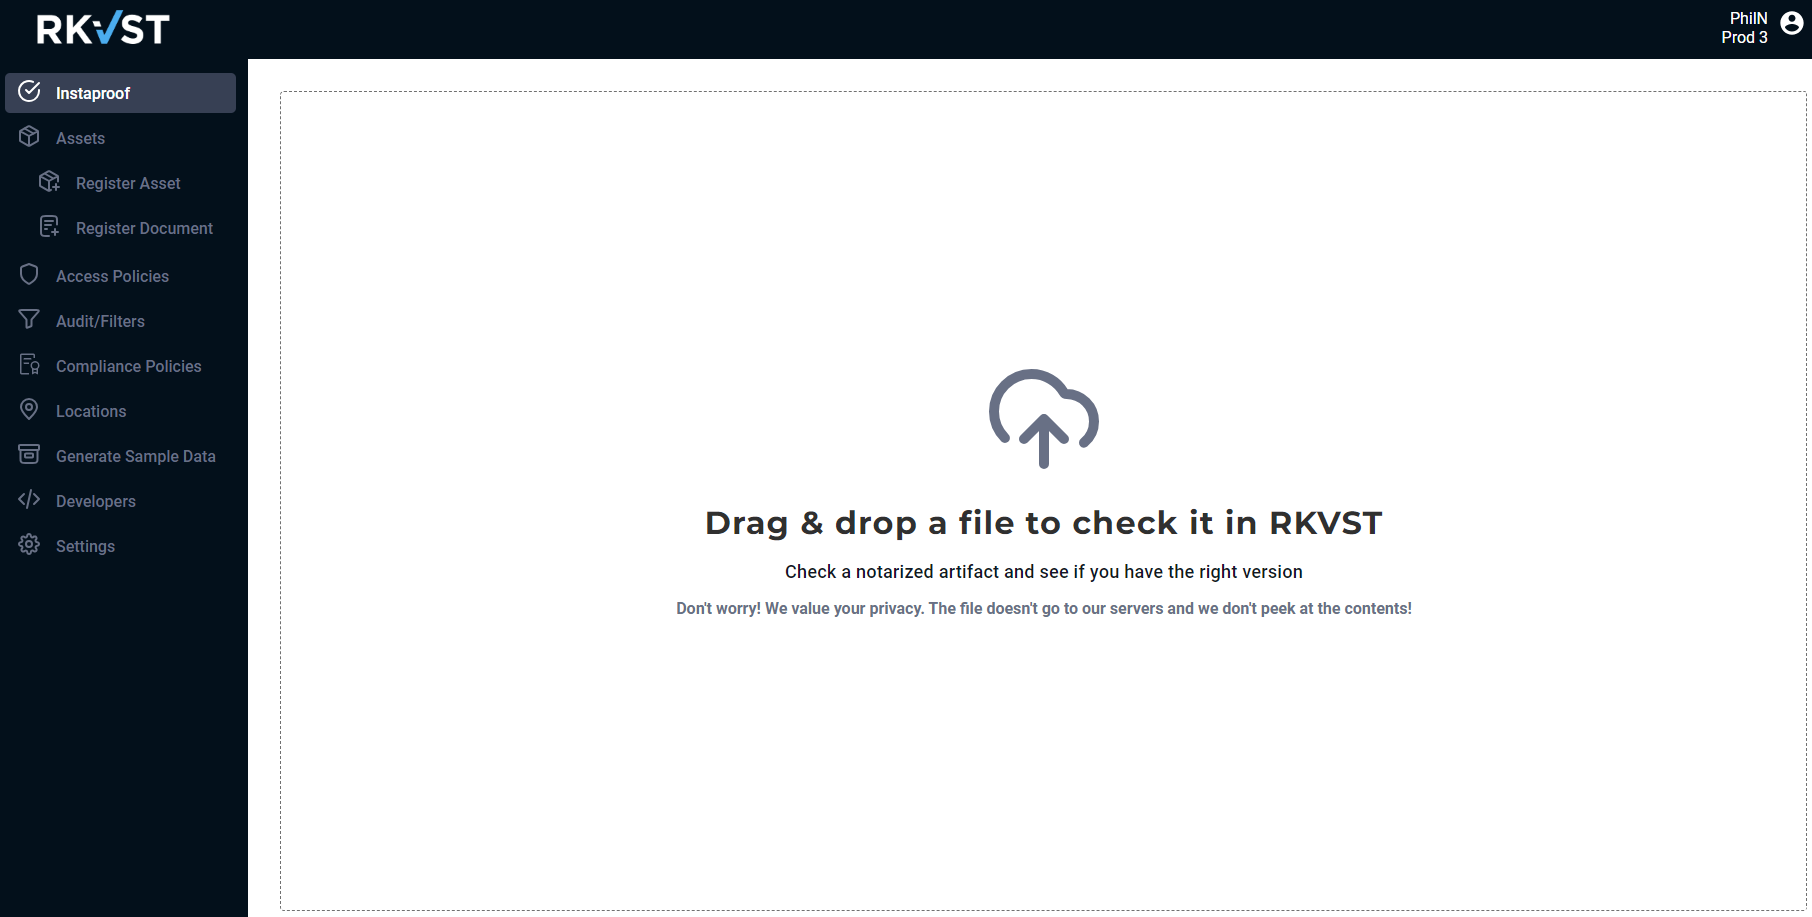
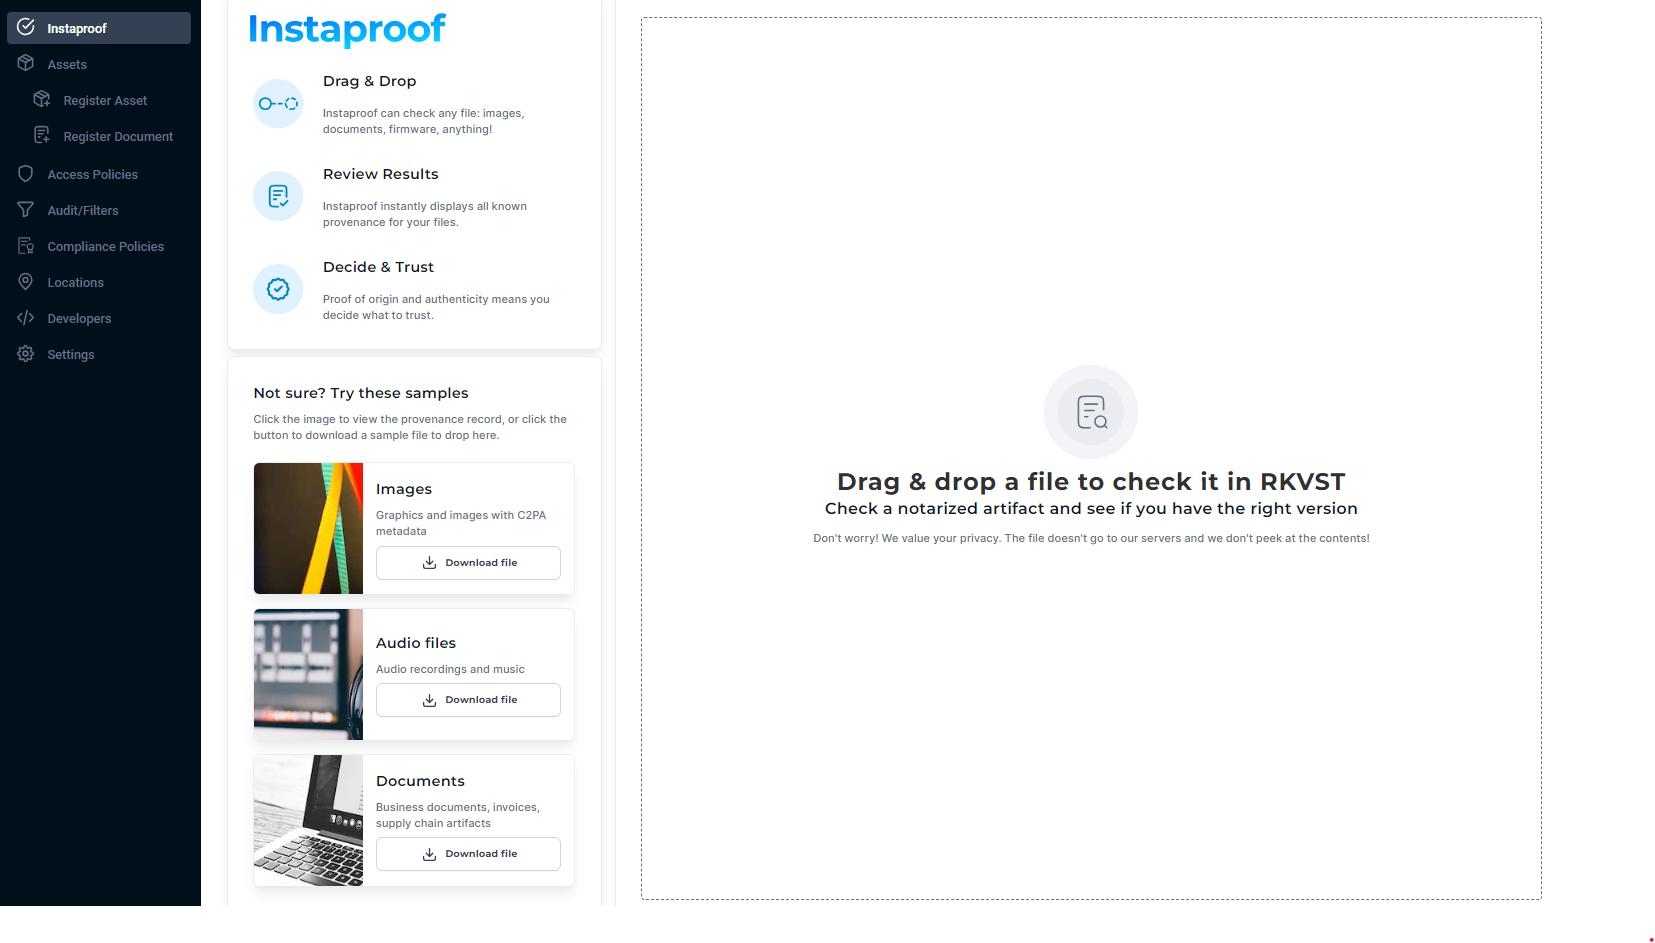
Instaproof screenshot update (#644)
* New article for document profile events

* Changes made after content review and feedback

* Instaproof screenshot update

---------

diff --git a/content/platform/overview/registering-an-event-against-a-document-profile-asset/index.md b/content/platform/overview/registering-an-event-against-a-document-profile-asset/index.md
@@ -1,0 +1,339 @@
+---
+title: "Registering an Event Against a Document Profile Asset"
+description: ""
+lead: ""
+date: 2023-07-26T13:07:55+01:00
+lastmod: 2023-07-26T13:07:55+01:00
+draft: false
+images: []
+menu: 
+  platform:
+    parent: "overview"
+weight: 36
+toc: true
+---
+
+It is rare for a document to remain unchanged during it's lifetime. Some documents are expected to go though many versions (e.g product documentation) while others (e.g. an employment contract) change much less frequently. 
+
+If you need to update your registered Document Profile Asset you can record this as an Event. The [Document Profile](/developers/developer-patterns/document-profile/) defines two types of Event; Publish and Withdraw.
+
+Document Registration is the first Event with each new version being recorded as a Publish Event.
+
+There is also the option to record an event (Record Event) that is important but is not formally part of the document profile. An example of this could be a document content review or a change in security classifiation.
+
+When the document version is no longer to be used there is a Withdraw Event.
+
+These Events track key moments of an Document's lifecycle; details of Who Did What When to each version of the document.
+
+{{< note >}}
+Before registering an Event, follow [this guide](/platform/overview/registering-a-document-profile-asset/) to register your first Document Asset.
+{{< /note >}}
+
+## Registering Events
+
+1. Open the Asset Overview for a Document Profile Asset. 
+
+{{< tabs name="add_event" >}}
+{{{< tab name="UI" >}}
+When viewing your Document, you have the choice of `Add New Version` (publish a new version), `Withdraw Document` (the document has reached End of Life) or `Record Event` (any other event that you wish to record).
+{{< img src="AssetOverview.png" alt="Rectangle" caption="<em>Document Asset Overview</em>" class="border-0" >}}
+{{< /tab >}}
+{{< tab name="YAML" >}}
+To use the YAML Runner, please visit [this link](https://python.rkvst.com/runner/index.html) for installation instructions.
+
+To create your Event, use the action `EVENTS_CREATE`.
+```yaml
+---
+steps:
+  - step:
+      action: EVENTS_CREATE
+      description: Record event against My First Document.
+      asset_label: assets/<asset-id>
+    behaviour: RecordEvidence
+```
+The `asset_id` must match the Asset ID found in the details of your Document. See [Step 7 of Registering a Document Profile Asset](/platform/overview/registering-a-document-profile-asset/).
+{{< /tab >}}
+{{< tab name="JSON" >}}
+Create an empty file, in later steps we will add the correct JSON.
+
+```json
+{
+
+}
+```
+
+{{< /tab >}}}
+{{< /tabs >}}
+<br>
+{{< note >}}
+In addition to the Asset and Event attributes that are part of the Document Profile, it is possible to record other attributes that are not part of the profile. These are:
+  
+* `Event Attributes` - Attributes specific to an Event, i.e. a new author.
+* `Asset Attributes` - Attributes of the Asset that may change as a result of the Event, i.e. the new document hash.
+{{< /note >}}
+<br>
+2. Adding a New Version.
+
+{{< tabs name="add_new_version" >}}
+{{{< tab name="UI" >}}
+Click on the `Add New Version` button.<br> 
+Information that is specific to the Document Profile is entered in the Document Information tab. As with registering the document, the new version can be dragged into the Auto-fill box or you can manually enter the document hash. 
+{{< img src="AddNewVersion.png" alt="Rectangle" caption="<em>Document Information</em>" class="border-0" >}}
+The Advanced Options tab is for additional Asset and Event attributes that are not part of the document profile.
+{{< img src="AddNewVersionDetails.png" alt="Rectangle" caption="<em>Advanced Options</em>" class="border-0" >}}
+{{< /tab >}}
+{{< tab name="YAML" >}}
+
+Add your `event_attributes` and `asset_attributes` as key-value pairs.
+
+Fill out the metadata about your Event; `operation` and `behaviour` detail what class of Event is being performed. By default this should always be `Record` and `RecordEvidence`, respectively.
+
+In the asset attributes section you should include the required RKVST asset attributes as defined by the document profile. The new document version hash value is `document_hash_value`, the hash algorithm is `document_hash_alg` and the `document_status` which must be `Published`.
+
+In the event attributes section you should also add the required RKVST event attribute `arc_display_type` together with any other event specific attributes. The Document Profile specifies that `arc_display_type` must be `Publish`.  
+
+```yaml
+---
+steps:
+  - step:
+      action: EVENTS_CREATE
+      description: Record event against My First Document.
+      asset_label: assets/<asset-id>
+    operation: Record
+    behaviour: RecordEvidence
+    asset_attributes: 
+      document_hash_value: 84684c83afd5e9cb3a83439872eae74798979ff5754b15931dbe768092174ec9
+      document_hash_alg: sha256
+      document_version: "2"
+      document_status: Published
+    event_attributes:
+      arc_description: Publish version 2 of My First Document
+      arc_display_type: Publish
+      document_version_authors:
+        - display_name: Dee Author
+          email: dee@writeme.org
+        - display_name: Anne Author
+          email: anne@writeme.org  
+    confirm: true
+```
+{{< /tab >}}
+{{< tab name="JSON" >}}
+Add your `event_attributes` and `asset_attributes` as key-value pairs.
+
+Fill out the metadata about your Event; `operation` and `behaviour` detail what class of Event is being performed. By default this should always be `Record` and `RecordEvidence`, respectively.
+
+In the asset attributes section you should include the required RKVST asset attributes as defined by the document profile. The new document version hash value is `document_hash_value`, the hash algorithm is `document_hash_alg` and the `document_status` which must be `Published`.
+
+In the event attributes section you should also add the required RKVST event attribute `arc_display_type` together with any other event specific attributes. The Document Profile specifies that `arc_display_type` must be `Publish`.  
+
+```json
+{
+  "operation": "Record",
+  "behaviour": "RecordEvidence",
+  "asset_attributes": {
[1 lines of base64/hex data omitted]
+        "document_hash_alg":"sha256",
+        "document_version":"2",
+        "document_status":"Published"
+    },
+  "event_attributes": {
+    "arc_description": "Publish version 2 of My First Document",
+    "arc_display_type": "Publish",
+          "document_version_authors": [
+            {
+              "display_name": "Dee Author",
+              "email": "dee@writeme.org"
+            },
+            {
+              "display_name": "Anne Author",
+              "email": "anne@writeme.org"
+            }
+          ]  
+  }
+}
+```
+
+This Event will be POSTed to a specific Asset endpoint when the curl command is run. To do this, you will need to include the correct `assets/<asset-id>` string for the asset in the URL.
+{{< /tab >}}}
+{{< /tabs >}}
+<br>
+
+3. The Withdraw Event.
+{{< tabs name="withdraw_event" >}}
+{{{< tab name="UI" >}}
+If a document is no longer required, or if for any reason it is decided that it should no longer be used, then a document can be withdrawn.<br>Withdrawal is optional and it is usually the final event in the document lifecycle. It can be reversed in RKVST by publishing a new version.
+{{< img src="WithdrawEvent.png" alt="Rectangle" caption="<em>Withdraw Event</em>" class="border-0" >}}
+
+{{< /tab >}}
+{{< tab name="YAML" >}}
+
+Use the attibute/value pairs in the example below to register a `Withdraw` event. 
+```yaml
+---
+steps:
+  - step:
+      action: EVENTS_CREATE
+      description: Withdraw My First Document.
+      asset_label: assets/<asset-id>
+    operation: Record
+    behaviour: RecordEvidence
+    asset_attributes: 
+      document_status: Withdrawn
+    event_attributes:
+      arc_description: Withdraw My First Document
+      arc_display_type: Withdraw
+    confirm: true
+```
+{{< /tab >}}
+{{< tab name="JSON" >}}
+
+Use the attibute/value pairs in the example below to register a `Withdraw` event.
+```json
+{
+  "behaviour": "RecordEvidence",
+    "operation": "Record",
+    "asset_attributes": {
+        "document_status":"Withdrawn"
+    },
+    "event_attributes": {
+        "arc_description":"Withdraw My First Document",
+        "arc_display_type":"Withdraw"
+    }
+}
+```
+{{< /tab >}}}
+{{< /tabs >}}
+<br>
+4. Recording a Generic Event.
+
+The `Record Event` button provides a way to record generic events that are not part of the Document Profile lifecycle. The asset and event attributes are in separate tabs in this Event type.
+
+See [Creating an Event Against an Asset](/platform/overview/creating-an-event-against-an-asset/) for more information on this event type.
+{{< tabs name="record_event" >}}
+{{{< tab name="UI" >}}
+
+{{< img src="RecordEvent.png" alt="Rectangle" caption="<em>Submitting the Event</em>" class="border-0" >}}
+
+{{< /tab >}}
+{{< tab name="YAML" >}}
+```yaml
+---
+steps:
+  - step:
+      action: EVENTS_CREATE
+      description: Record event against My First Document.
+      asset_label: assets/<asset-id>
+    operation: Record
+    behaviour: RecordEvidence
+    event_attributes:
+      arc_description: Document review
+      arc_display_type:  Review
+    confirm: true
+```
+{{< /tab >}}
+{{< tab name="JSON" >}}
+```json
+{
+  "operation": "Record",
+  "behaviour": "RecordEvidence",
+  "event_attributes": {
+    "arc_description": "Document Review",
+    "arc_display_type": "Review",
+  },
+}
+
+```
+{{< /tab >}}}
+{{< /tabs >}}
+<br>
+5. Registering the Event
+{{< tabs name="register_event" >}}
+{{{< tab name="UI" >}}
+Once your form is complete, click on the `Record Event` button to register the event.
+{{< img src="RecordEvent.png" alt="Rectangle" caption="<em>Submitting the Event</em>" class="border-0" >}}
+{{< /tab >}}
+{{< tab name="YAML" >}}
+Use the [archivist_runner](https://python.rkvst.com/runner/index.html) to run your YAML file!
+ 
+```bash
+$ archivist_runner \
+      -u https://app.rkvst.io \
+      --client-id <your-client-id> \
+      --client-secret <your-client-secret> \
+      my_first_document_event.yaml
+```
+{{< /tab >}}
+{{< tab name="JSON" >}}
+Use the curl command to run your JSON file! See instructions for [creating your `BEARER_TOKEN_FILE`](/developers/developer-patterns/getting-access-tokens-using-app-registrations/) here.
+ 
+```bash
+curl -v -X POST \
+    -H "@$BEARER_TOKEN_FILE" \
+    -H "Content-type: application/json" \
+    -d "@/path/to/jsonfile" \
+    https://app.rkvst.io/archivist/v2/assets/<asset-id>/events
+```
+{{< /tab >}}}
+{{< /tabs >}}
+<br>
+6. Viewing Event details. 
+
+{{< tabs name="view_event" >}}
+{{{< tab name="UI" >}}
+The Event History can be seen in the Asset Overview from step 1, simply click on any Event row to view it.<br>
+The Document tab shows information about the document version that you are viewing and also provides a drag-and-drop box that allows you to check any locally stored versions of the document that you have against this specific version.
+
+{{< img src="EventDetails.png" alt="Rectangle" caption="<em>Viewing an Event</em>" class="border-0" >}}
+
+The More Details tab provides information about the Event itself and incluides a link to the transaction. It also includes any optional attributes that were included in the Event.
+
+{{< img src="MoreEventDetails.png" alt="Rectangle" caption="<em>Viewing Event Attributes</em>" class="border-0" >}}
+
+{{< /tab >}}
+{{< tab name="YAML" >}}
+The `EVENTS_LIST` action can be used to view all Events, or filtered using attributes (`attrs`) to view details of a specific Event. 
+
+To view all Events, use: 
+```yaml
+---
+steps:
+  - step:
+      action: EVENTS_LIST
+      description: List all events.
+      print_response: true
+```
+To view the details of the Event you just created for My First Container, use:
+```yaml
+---
+steps:
+  - step:
+      action: EVENTS_LIST
+      description: List Events against the Document 'My First Document'.
+      print_response: true
+      asset_label: assets/59e2b78b-d555-49a0-8775-f336b640122e 
+    attrs:
+      arc_display_type: Publish
+```
+{{< /tab >}}
+{{< tab name="JSON" >}}
+Event data can be viewed using curl commands. 
+
+To view all Events across all Assets, use:
+
+```bash
+curl -v -X GET \
+     -H "@$BEARER_TOKEN_FILE" \
+     https://app.rkvst.io/archivist/v2/assets/-/events
+```
+
+To view the details of the Event you just created for My First Document, use:
+
+```bash
+curl -v -X GET \
+     -H "@$BEARER_TOKEN_FILE" \
+     https://app.rkvst.io/archivist/v2/assets/<asset-id>/events/<event-id>
+```
+{{< /tab >}}}
+{{< /tabs >}}
+
+

diff --git a/content/platform/overview/creating-an-event-against-an-asset/index.md b/content/platform/overview/creating-an-event-against-an-asset/index.md
@@ -294,6 +294,10 @@ curl -v -X GET \
 {{< /tab >}}}
 {{< /tabs >}}
 
+<<<<<<< HEAD
+Please see the [Administation](/platform/administration/) section for information on how to manage your assets.
+=======
 
 In the next section we look at a specific type of Asset, the Document Profile Asset.
+>>>>>>> main
 

diff --git a/content/platform/overview/instaproof/index.md b/content/platform/overview/instaproof/index.md
@@ -9,7 +9,7 @@ images: []
 menu: 
   platform:
     parent: "overview"
-weight: 38
+weight: 37
 toc: true
 ---
 Instaproof provides data provenance and authenticity with a simple drag-and-drop. 

diff --git a/content/platform/overview/public-attestation/index.md b/content/platform/overview/public-attestation/index.md
@@ -9,7 +9,7 @@
  menu:
    platform:
      parent: "overview"
- weight: 36
+ weight: 38
  toc: true
  aliases:
   - /docs/beyond-the-basics/public-attestation/

diff --git a/content/platform/overview/scitt-receipts/index.md b/content/platform/overview/scitt-receipts/index.md
@@ -9,7 +9,7 @@
  menu:
    platform:
      parent: "overview"
- weight: 37
+ weight: 39
  toc: true
 ---
 
